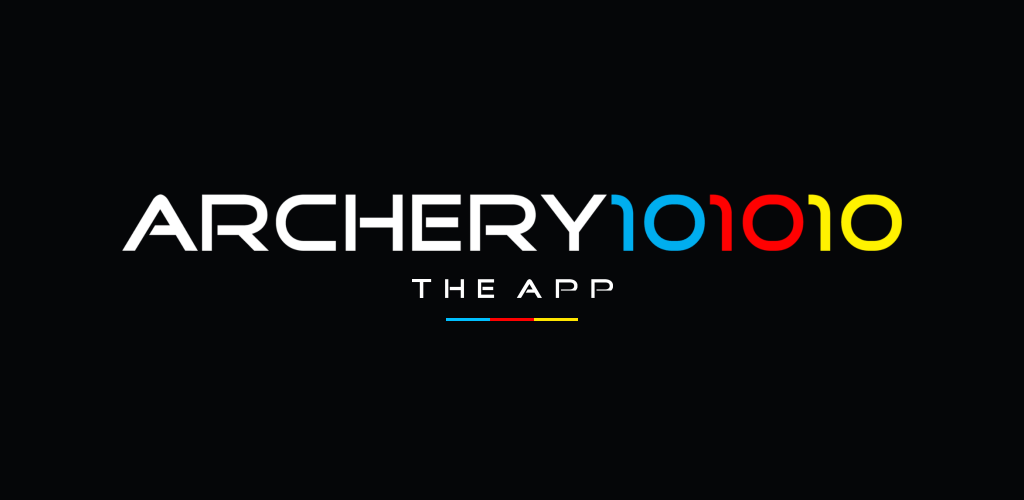
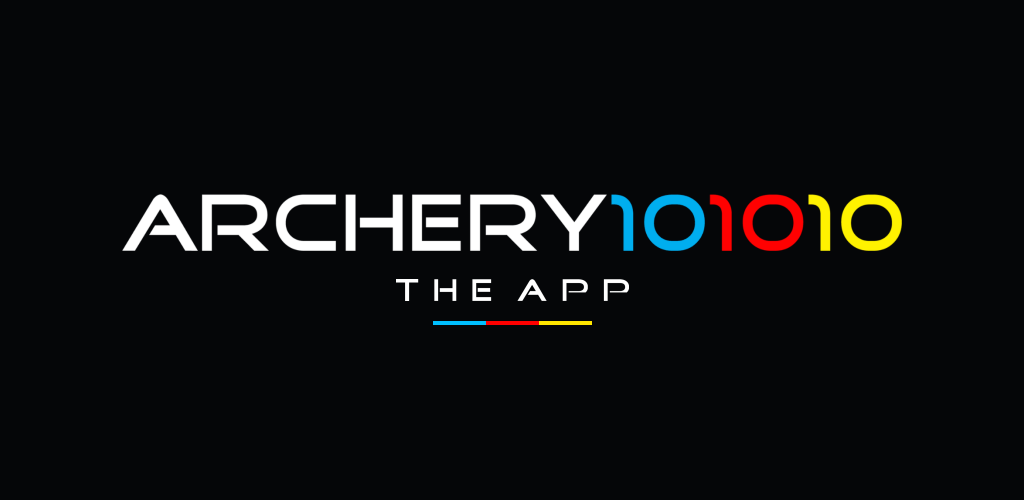
style(store-assets): enlarge THE APP by 15% and tricolor accent bar by 20% width + thicker stroke

Changed region(s): [[0.375, 0.54, 0.625, 0.6], [0.4062, 0.63, 0.5938, 0.66]]

diff --git a/scripts/generate-playstore-assets.js b/scripts/generate-playstore-assets.js
@@ -113,7 +113,8 @@ async function generateFeatureGraphic(logo3Path) {
     }
   }
 
-  const subTargetH = 19;
+  // +15% larger "THE APP" (19 -> 22px height)
+  const subTargetH = 22;
   const subTargetW = Math.round(seqW * (subTargetH / 131));
   subtitleHiRes.resize({ w: subTargetW, h: subTargetH });
 
@@ -121,9 +122,9 @@ async function generateFeatureGraphic(logo3Path) {
   const subY = Math.round(logoY + targetH + 28);
   canvas.composite(subtitleHiRes, subX, subY);
 
-  // 3. Crisp 3-segment 101010 Tricolor Accent Line below "THE APP"
-  const barWidth = 132;
-  const barHeight = 3;
+  // 3. Crisp 3-segment 101010 Tricolor Accent Line below "THE APP" (+20% longer: 132 -> 159px, thicker: 3 -> 4px)
+  const barWidth = 159;
+  const barHeight = 4;
   const barX = Math.round(cx - barWidth / 2);
   const barY = Math.round(subY + subTargetH + 20);
   const segW = barWidth / 3;
